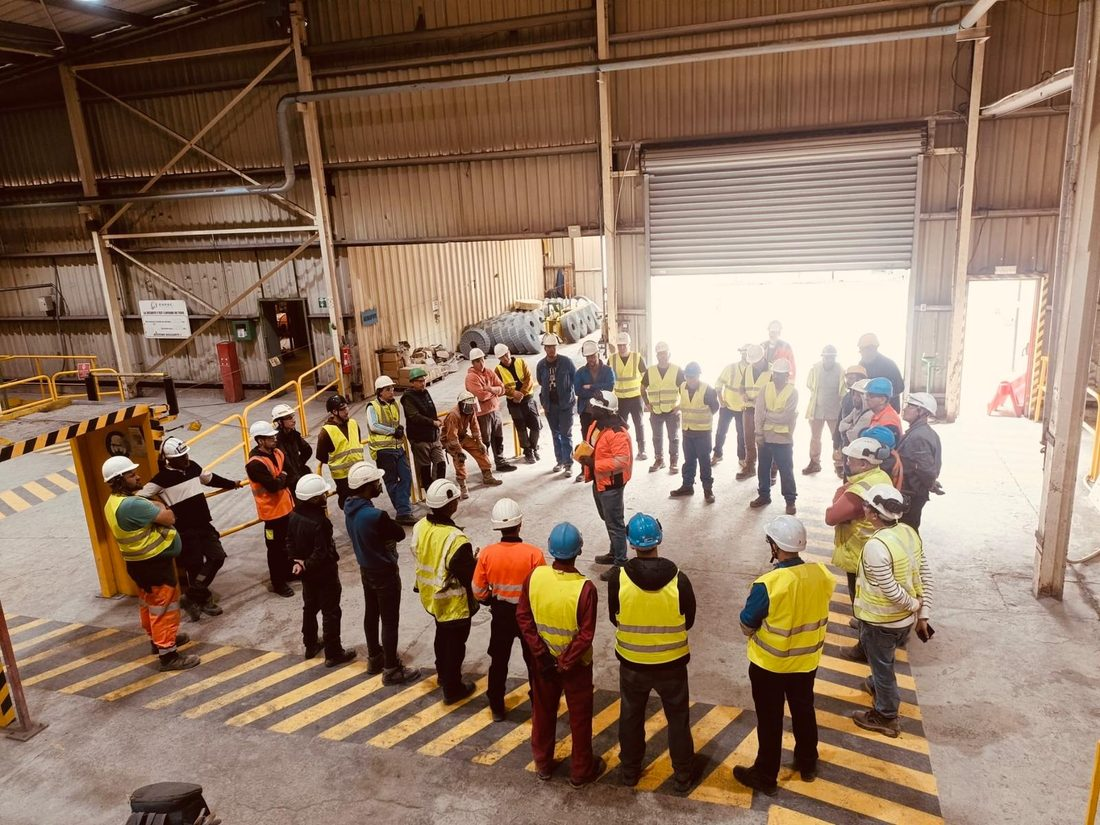
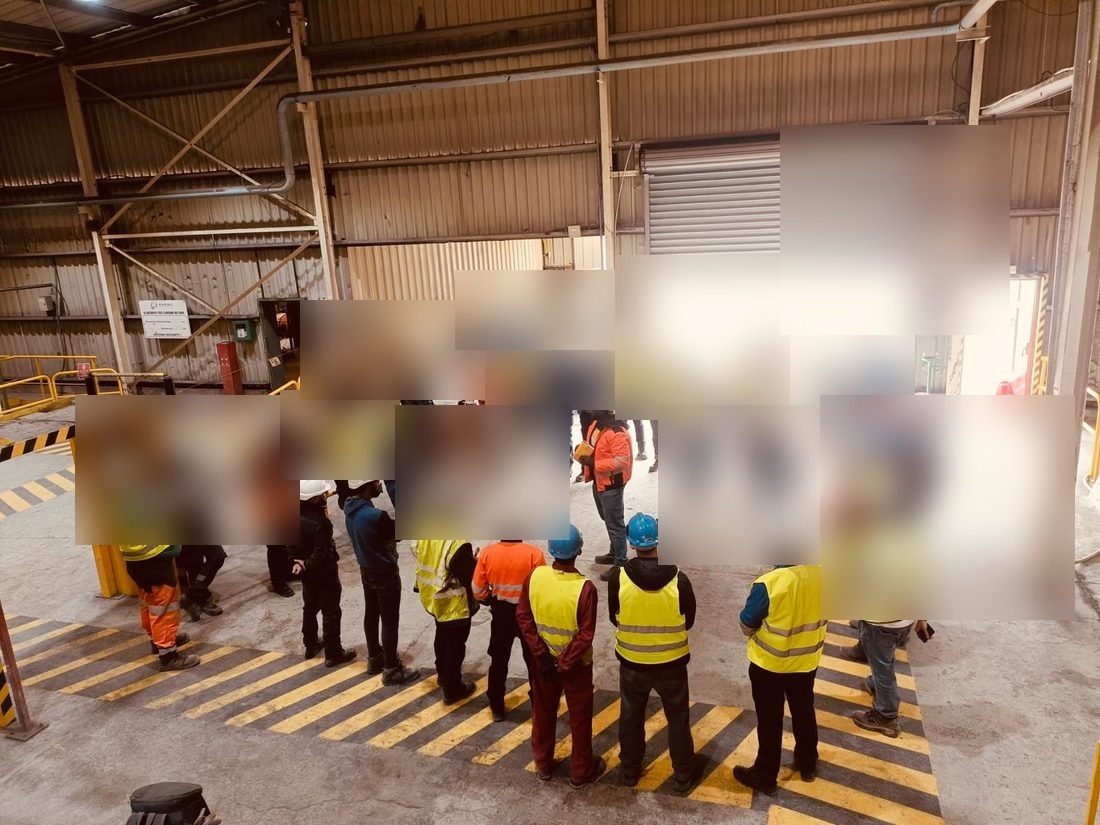
Floute les visages des autres personnes sur les photos de terrain
Seul l'animateur (fondateur) reste identifiable, conformément au droit
à l'image des autres personnes présentes sur les photos. Ajoute aussi
une nouvelle photo (échange avec les équipes, documents à la main) à
la galerie de la page À propos.

Changed region(s): [[0.0618, 0.1515, 0.9273, 0.7576], [0.8964, 0.4545, 0.9891, 0.7576], [0.8345, 0.3636, 0.8655, 0.3939]]

diff --git a/templates/apropos.html b/templates/apropos.html
@@ -36,7 +36,7 @@
                 <p>
                     {{ coord.fondateur }} est diplômé en Risques Industriels et
                     Maintenance, avec des expériences concrètes en environnement
-                    industriel acquises notamment chez Veolia, Doka et SOCOTEC :
+                    industriel acquises notamment chez Eupec International (oil & gaz), Veolia, Doka et SOCOTEC :
                     coordination d'activités sur site, supervision d'interventions
                     techniques, application stricte des règles HSE, planification des
                     opérations et suivi de prestataires.
@@ -67,6 +67,12 @@
                 <img src="{{ url_for('static', filename='img/fondateur-hestim.jpg') }}"
                      alt="{{ coord.fondateur }} lors d'un événement professionnel">
                 <figcaption>Événement professionnel</figcaption>
+            </figure>
+
+            <figure>
+                <img src="{{ url_for('static', filename='img/fondateur-briefing-documents.jpg') }}"
+                     alt="{{ coord.fondateur }} échangeant avec des équipes sur site, documents à la main">
+                <figcaption>Échange avec les équipes sur site</figcaption>
             </figure>
         </div>
     </div>
